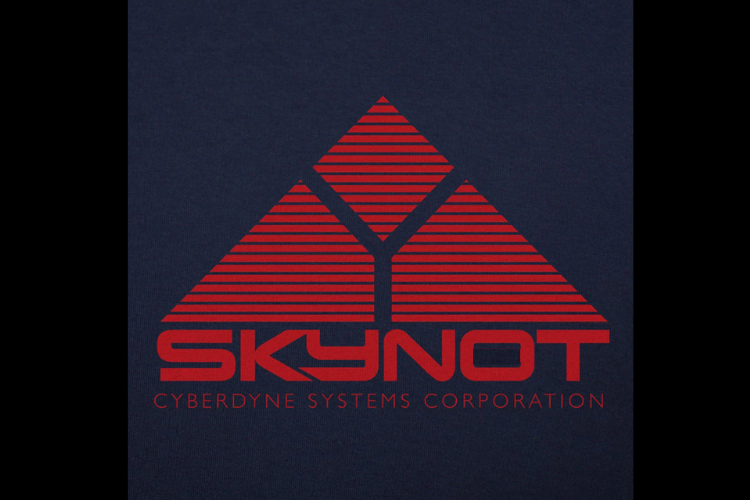
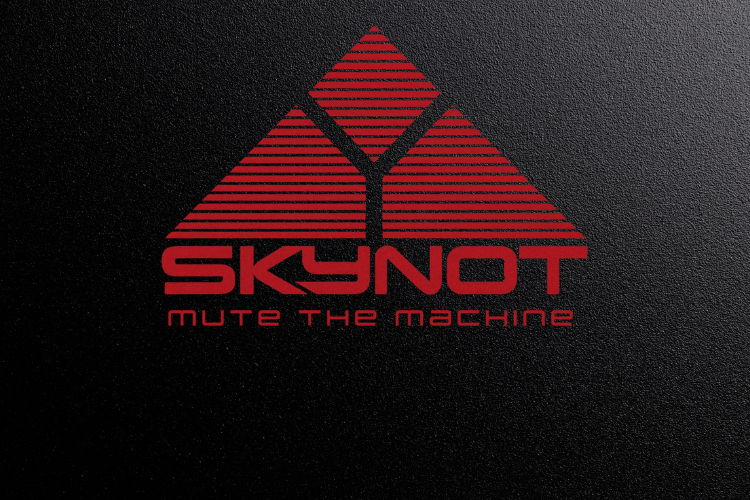
Update popup button text and replace background image

diff --git a/src/pages/popup.html b/src/pages/popup.html
@@ -16,7 +16,7 @@
     <img src="../assets/images/background.png" alt="logo" />
 
     <div class="button-container">
-      <button class="terminated-button" id="terminateButton">Terminate</button>
+      <button class="terminated-button" id="terminateButton">AI BLOCKED</button>
     </div>
 
     <script src="/dist/scripts/popup.js"></script>
